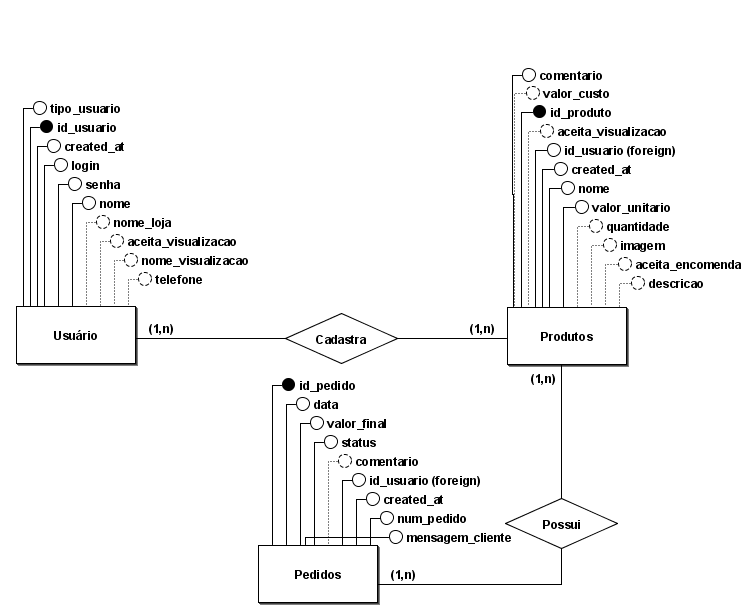
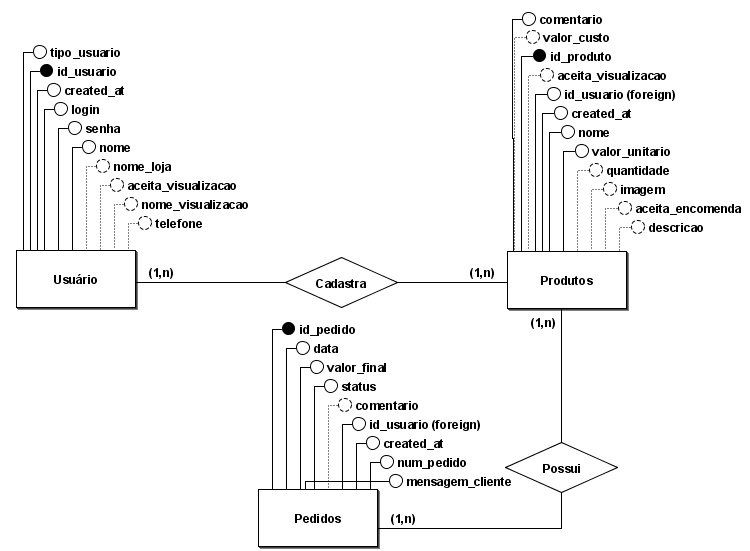
págians

diff --git a/pagina6.html b/pagina6.html
@@ -3,7 +3,7 @@
   <head>
     <meta charset="UTF-8" />
     <meta name="viewport" content="width=device-width, initial-scale=1.0" />
-    <title>Apresentação - Página 2</title>
+    <title>Apresentação - Página 6</title>
 
     <link
       rel="stylesheet"
@@ -16,55 +16,19 @@
   </head>
   <body>
     <main>
-      <div
-        class="m-10 border-black border-2 p-10 bg-slate-100 h-[calc(100dvh-8rem)] shadow-[-3px_3px_0px_0px_#000]"
-      >
-        <img src="./assets/img/nize_new.png" alt="logo nize" class="w-20" />
- 
-        <div class="my-0 mx-auto w-[31%]">
+      <div class="m-10 h-[calc(100dvh-8rem)]">
+        <div class="my-0 w-[100%] grid">
           <h1
-            class="text-center text-xl bg-[#bd87f4] self-center p-3 border-black border-2 shadow-[-3px_3px_0px_0px_#000] text-white mb-8"
+            class="text-center text-xl bg-[#bd87f4] self-center p-3 border-black border-2 shadow-[-3px_3px_0px_0px_#000] text-white w-fit fixed top-10"
           >
-            Atores do sistema
+            Diagrama de casos de uso
           </h1>
-        </div>
 
-        <div
-          class="grid grid-cols-3 gap-10 h-[75%] mt-5"
-        >
-          <div class="w-full">
-            <h1
-              class="text-center text-xl mt-5 bg-[#a9e879] self-center p-3 border-black border-2 shadow-[-3px_3px_0px_0px_#000] mb-8"
-            >
-              Administrador
-            </h1>
-            <p class="text-left h-[80px]">
-              Ator interno, faz a gestão de usuários.
-            </p>
-          </div>
-
-          <div class="w-full">
-            <h1
-              class="text-center text-xl mt-5 bg-[#a9e879] self-center p-3 border-black border-2 shadow-[-3px_3px_0px_0px_#000] mb-8"
-            >
-              Usuário
-            </h1>
-            <p class="text-left h-[80px]">
-              Gestão de produtos e pedidos, bem como dos próprios dados
-              cadastrais.
-            </p>
-          </div>
-
-          <div class="w-full">
-            <h1
-              class="text-center text-xl mt-5 bg-[#a9e879] self-center p-3 border-black border-2 shadow-[-3px_3px_0px_0px_#000] mb-8"
-            >
-              Visitante
-            </h1>
-            <p class="text-left h-[80px]">
-              Visualiza os produtos e poder fazer um pedido.
-            </p>
-          </div>
+          <img
+            src="assets/img/diagrama_casos_uso.png"
+            alt="Diagrama de casos de uso"
+            class="border-black border-2 shadow-[-3px_3px_0px_0px_#000] h-[85%] p-2 bg-white mx-auto my-0"
+          />
         </div>
       </div>
 

diff --git a/pagina7.html b/pagina7.html
@@ -1,0 +1,49 @@
+<!doctype html>
+<html lang="pt-br">
+  <head>
+    <meta charset="UTF-8" />
+    <meta name="viewport" content="width=device-width, initial-scale=1.0" />
+    <title>Apresentação - Página 7</title>
+
+    <link
+      rel="stylesheet"
+      href="https://cdn.jsdelivr.net/npm/bootstrap-icons@1.13.1/font/bootstrap-icons.min.css"
+    />
+
+    <link rel="stylesheet" href="./assets/css/css.css" />
+
+    <script src="https://cdn.tailwindcss.com"></script>
+  </head>
+  <body>
+    <main>
+      <div class="m-10 h-[calc(100dvh-8rem)]">
+        <div class="my-0 w-[100%] grid">
+          <h1
+            class="text-center text-xl bg-[#bd87f4] self-center p-3 border-black border-2 shadow-[-3px_3px_0px_0px_#000] text-white w-fit fixed top-10 leading-relaxed"
+          >
+            Banco de dados <br>Modelo conceitual
+          </h1>
+
+          <img
+            src="assets/img/banco_dados_conceitual.png"
+            alt="Diagrama de casos de uso"
+            class="border-black border-2 shadow-[-3px_3px_0px_0px_#000] h-[100%] p-2 bg-white mx-auto my-0"
+          />
+        </div>
+      </div>
+
+      <div class="flex flex-row justify-center">
+        <a
+          href="pagina6.html"
+          class="bg-purple-700 p-2 text-white border-black border-2 align-bottom shadow-[-2px_2px_0px_0px_#000] mx-4 hover:bg-[#bd87f4]"
+          ><i class="bi bi-arrow-left"></i
+        ></a>
+        <a
+          href="pagina8.html"
+          class="bg-purple-700 p-2 text-white border-black border-2 align-bottom shadow-[-2px_2px_0px_0px_#000] mx-4 hover:bg-[#bd87f4]"
+          ><i class="bi bi-arrow-right"></i
+        ></a>
+      </div>
+    </main>
+  </body>
+</html>

diff --git a/pagina8.html b/pagina8.html
@@ -1,0 +1,49 @@
+<!doctype html>
+<html lang="pt-br">
+  <head>
+    <meta charset="UTF-8" />
+    <meta name="viewport" content="width=device-width, initial-scale=1.0" />
+    <title>Apresentação - Página 8</title>
+
+    <link
+      rel="stylesheet"
+      href="https://cdn.jsdelivr.net/npm/bootstrap-icons@1.13.1/font/bootstrap-icons.min.css"
+    />
+
+    <link rel="stylesheet" href="./assets/css/css.css" />
+
+    <script src="https://cdn.tailwindcss.com"></script>
+  </head>
+  <body>
+    <main>
+      <div class="m-10 h-[calc(100dvh-8rem)]">
+        <div class="my-0 w-[100%] grid">
+          <h1
+            class="text-center text-xl bg-[#bd87f4] self-center p-3 border-black border-2 shadow-[-3px_3px_0px_0px_#000] text-white w-fit fixed top-10 leading-relaxed"
+          >
+            Banco de dados <br>Modelo lógico
+          </h1>
+
+          <img
+            src="assets/img/banco_dados_logico.png"
+            alt="Diagrama de casos de uso"
+            class="border-black border-2 shadow-[-3px_3px_0px_0px_#000] h-[100%] p-5 bg-white mx-auto my-0"
+          />
+        </div>
+      </div>
+
+      <div class="flex flex-row justify-center">
+        <a
+          href="pagina7.html"
+          class="bg-purple-700 p-2 text-white border-black border-2 align-bottom shadow-[-2px_2px_0px_0px_#000] mx-4 hover:bg-[#bd87f4]"
+          ><i class="bi bi-arrow-left"></i
+        ></a>
+        <a
+          href="pagina9.html"
+          class="bg-purple-700 p-2 text-white border-black border-2 align-bottom shadow-[-2px_2px_0px_0px_#000] mx-4 hover:bg-[#bd87f4]"
+          ><i class="bi bi-arrow-right"></i
+        ></a>
+      </div>
+    </main>
+  </body>
+</html>

diff --git a/pagina9.html b/pagina9.html
@@ -1,0 +1,38 @@
+<!doctype html>
+<html lang="pt-br">
+  <head>
+    <meta charset="UTF-8" />
+    <meta name="viewport" content="width=device-width, initial-scale=1.0" />
+    <title>Apresentação - Página 9</title>
+
+    <link
+      rel="stylesheet"
+      href="https://cdn.jsdelivr.net/npm/bootstrap-icons@1.13.1/font/bootstrap-icons.min.css"
+    />
+
+    <link rel="stylesheet" href="./assets/css/css.css" />
+
+    <script src="https://cdn.tailwindcss.com"></script>
+  </head>
+  <body>
+    <main>
+      <div class="m-10 border-black border-2 p-10 bg-slate-100 h-[calc(100dvh-8rem)] flex justify-center flex-col shadow-[-3px_3px_0px_0px_#000]">
+        <div 
+        class="
+        my-0
+        mx-auto
+        ">
+          <h1 class="text-center text-3xl bg-[#a9e879] p-7 border-black border-2 shadow-[-3px_3px_0px_0px_#000] text-black w-fit mx-auto my-0"><a href="http://localhost:8000" target="_blank">Vamos pro sistema?</a></h1>
+        </div>
+      </div>
+
+      <div class="flex flex-row justify-center">
+        <a
+          href="pagina8.html"
+          class="bg-purple-700 p-2 text-white border-black border-2 align-bottom shadow-[-2px_2px_0px_0px_#000] mx-4 hover:bg-[#bd87f4]"
+          ><i class="bi bi-arrow-left"></i
+        ></a>
+      </div>
+    </main>
+  </body>
+</html>

diff --git a/pagina3.html b/pagina3.html
@@ -3,7 +3,7 @@
   <head>
     <meta charset="UTF-8" />
     <meta name="viewport" content="width=device-width, initial-scale=1.0" />
-    <title>Apresentação - Página 2</title>
+    <title>Apresentação - Página 3</title>
 
     <link
       rel="stylesheet"

diff --git a/pagina4.html b/pagina4.html
@@ -3,7 +3,7 @@
   <head>
     <meta charset="UTF-8" />
     <meta name="viewport" content="width=device-width, initial-scale=1.0" />
-    <title>Apresentação - Página 2</title>
+    <title>Apresentação - Página 4</title>
 
     <link
       rel="stylesheet"

diff --git a/pagina5.html b/pagina5.html
@@ -3,7 +3,7 @@
   <head>
     <meta charset="UTF-8" />
     <meta name="viewport" content="width=device-width, initial-scale=1.0" />
-    <title>Apresentação - Página 2</title>
+    <title>Apresentação - Página 5</title>
 
     <link
       rel="stylesheet"
